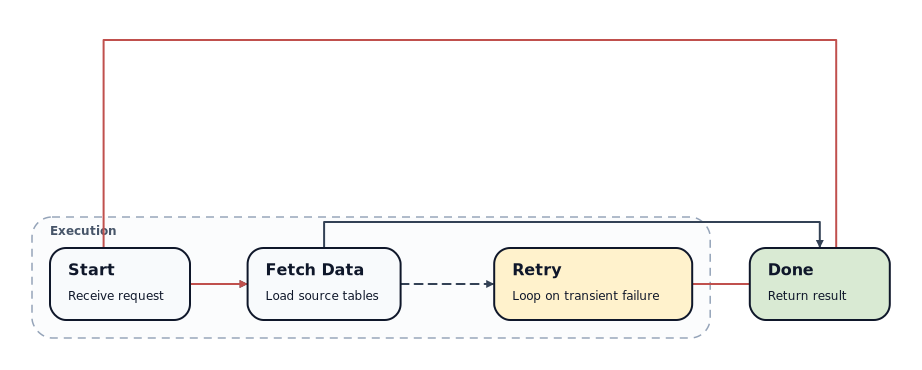
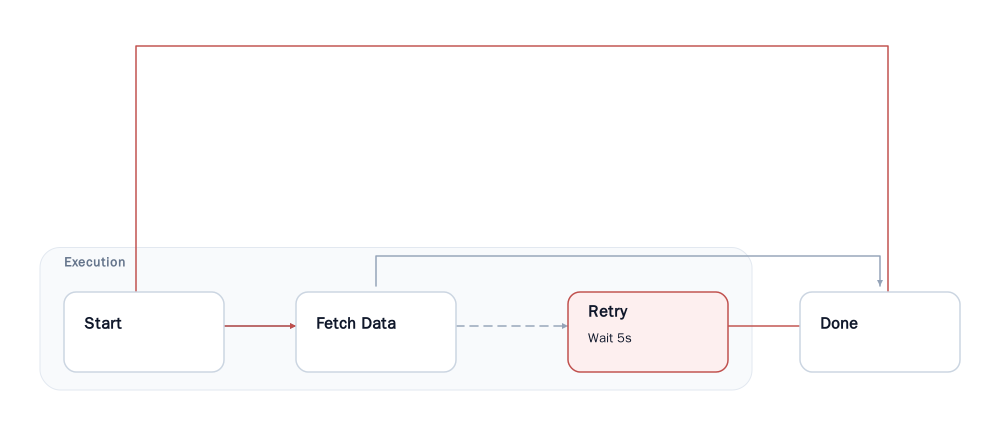
feat: revamp theme design to be presentation-ready and update assets

Changed region(s): [[0.0304, 0.0892, 0.9718, 0.9216]]

diff --git a/src/frameplot/render/svg.py b/src/frameplot/render/svg.py
@@ -35,10 +35,10 @@ def render_svg(layout: LayoutResult, theme: Theme) -> str:
     
     # Drop Shadow Filter
     filter_elem = ET.SubElement(defs, ET.QName(SVG_NS, "filter"), attrib={"id": "drop-shadow", "x": "-20%", "y": "-20%", "width": "140%", "height": "140%"})
-    ET.SubElement(filter_elem, ET.QName(SVG_NS, "feGaussianBlur"), attrib={"in": "SourceAlpha", "stdDeviation": "2"})
-    ET.SubElement(filter_elem, ET.QName(SVG_NS, "feOffset"), attrib={"dx": "0", "dy": "2", "result": "offsetblur"})
+    ET.SubElement(filter_elem, ET.QName(SVG_NS, "feGaussianBlur"), attrib={"in": "SourceAlpha", "stdDeviation": _fmt(theme.shadow_blur)})
+    ET.SubElement(filter_elem, ET.QName(SVG_NS, "feOffset"), attrib={"dx": "0", "dy": _fmt(theme.shadow_offset_y), "result": "offsetblur"})
     ET.SubElement(filter_elem, ET.QName(SVG_NS, "feComponentTransfer")).append(
-        ET.Element(ET.QName(SVG_NS, "feFuncA"), attrib={"type": "linear", "slope": "0.08"})
+        ET.Element(ET.QName(SVG_NS, "feFuncA"), attrib={"type": "linear", "slope": _fmt(theme.shadow_opacity)})
     )
     merge = ET.SubElement(filter_elem, ET.QName(SVG_NS, "feMerge"))
     ET.SubElement(merge, ET.QName(SVG_NS, "feMergeNode"))
@@ -116,19 +116,20 @@ def _render_groups(parent: ET.Element, graph: GraphLayout, theme: Theme) -> None
             },
         )
         # Subtle accent line at the top
-        ET.SubElement(
-            parent,
-            ET.QName(SVG_NS, "line"),
-            attrib={
-                "x1": _fmt(overlay.bounds.x + 10),
-                "y1": _fmt(overlay.bounds.y),
-                "x2": _fmt(overlay.bounds.x + 60),
-                "y2": _fmt(overlay.bounds.y),
-                "stroke": overlay.stroke,
-                "stroke-width": _fmt(theme.group_stroke_width * 2.5),
-                "stroke-linecap": "round",
-            },
-        )
+        if theme.show_group_accent_line:
+            ET.SubElement(
+                parent,
+                ET.QName(SVG_NS, "line"),
+                attrib={
+                    "x1": _fmt(overlay.bounds.x + 10),
+                    "y1": _fmt(overlay.bounds.y),
+                    "x2": _fmt(overlay.bounds.x + 60),
+                    "y2": _fmt(overlay.bounds.y),
+                    "stroke": overlay.stroke,
+                    "stroke-width": _fmt(theme.group_stroke_width * 2.5),
+                    "stroke-linecap": "round",
+                },
+            )
         ET.SubElement(
             parent,
             ET.QName(SVG_NS, "text"),

diff --git a/src/frameplot/theme.py b/src/frameplot/theme.py
@@ -57,6 +57,12 @@ class Theme:
     route_track_gap: float = 20.0
     back_edge_gap: float = 30.0
     self_loop_size: float = 32.0
+    
+    # Shadow and effects
+    shadow_blur: float = 4.0
+    shadow_opacity: float = 0.05
+    shadow_offset_y: float = 2.0
+    show_group_accent_line: bool = True
 
     @classmethod
     def modern(cls) -> Theme:
@@ -71,11 +77,45 @@ class Theme:
             group_fill="#F4F4F5",
             group_label_color="#71717A",
             title_font_family="Inter, -apple-system, BlinkMacSystemFont, 'Segoe UI', Roboto, sans-serif",
-            corner_radius=8.0,
+            corner_radius=10.0,
             stroke_width=1.2,
             group_fill_opacity=0.5,
             rank_gap=80.0,
             node_gap=32.0,
+            shadow_blur=8.0,
+            shadow_opacity=0.04,
+            shadow_offset_y=3.0,
+            show_group_accent_line=False,
+        )
+
+    @classmethod
+    def presentation(cls) -> Theme:
+        """High contrast, clean lines, maximum readability for presentations."""
+        return cls(
+            background_color="#FFFFFF",
+            node_fill="#FFFFFF",
+            node_stroke="#CBD5E1",
+            node_text_color="#0F172A",
+            edge_color="#94A3B8",
+            group_stroke="#E2E8F0",
+            group_fill="#F8FAFC",
+            group_label_color="#64748B",
+            title_font_family="Inter, -apple-system, 'SF Pro Display', system-ui, sans-serif",
+            title_font_size=16.0,
+            subtitle_font_size=13.0,
+            title_font_weight=700,
+            subtitle_font_weight=500,
+            corner_radius=12.0,
+            group_corner_radius=20.0,
+            stroke_width=1.5,
+            group_stroke_width=1.0,
+            group_fill_opacity=1.0,
+            rank_gap=120.0,
+            node_gap=48.0,
+            shadow_blur=12.0,
+            shadow_opacity=0.08,
+            shadow_offset_y=6.0,
+            show_group_accent_line=False,
         )
 
     @classmethod

diff --git a/examples/quickstart.py b/examples/quickstart.py
@@ -1,0 +1,23 @@
+from frameplot import Node, Edge, Group, Pipeline, Theme
+
+pipeline = Pipeline(
+    nodes=[
+        Node("start", "Start"),
+        Node("fetch", "Fetch Data"),
+        Node("retry", "Retry", "Wait 5s", fill="#FDEFEF", stroke="#C0504D"),
+        Node("done", "Done"),
+    ],
+    edges=[
+        Edge("e1", "start", "fetch"),
+        Edge("e2", "fetch", "retry", dashed=True),
+        Edge("e3", "retry", "fetch", color="#C0504D"),
+        Edge("e4", "fetch", "done"),
+    ],
+    groups=[
+        Group("g1", "Execution", ["start", "fetch", "retry"], edge_ids=["e2"]),
+    ],
+    theme=Theme.presentation()
+)
+
+pipeline.save_svg("docs/assets/quickstart.svg")
+pipeline.save_png("docs/assets/quickstart.png")

diff --git a/examples/sar_backbone_example.py b/examples/sar_backbone_example.py
@@ -79,7 +79,7 @@ def build_pipeline() -> Pipeline:
         nodes=nodes,
         edges=edges,
         detail_panel=detail_panel,
-        theme=Theme.modern()
+        theme=Theme.presentation()
     )
 
 def main() -> None:

diff --git a/examples/hero_new.py b/examples/hero_new.py
@@ -2,7 +2,7 @@
 
 def main():
     # 1. 테마 설정 (프리셋 사용으로 대폭 간소화)
-    dark_theme = Theme.dark()
+    dark_theme = Theme.presentation()
 
     # 2. 메인 파이프라인 노드
     nodes = [
